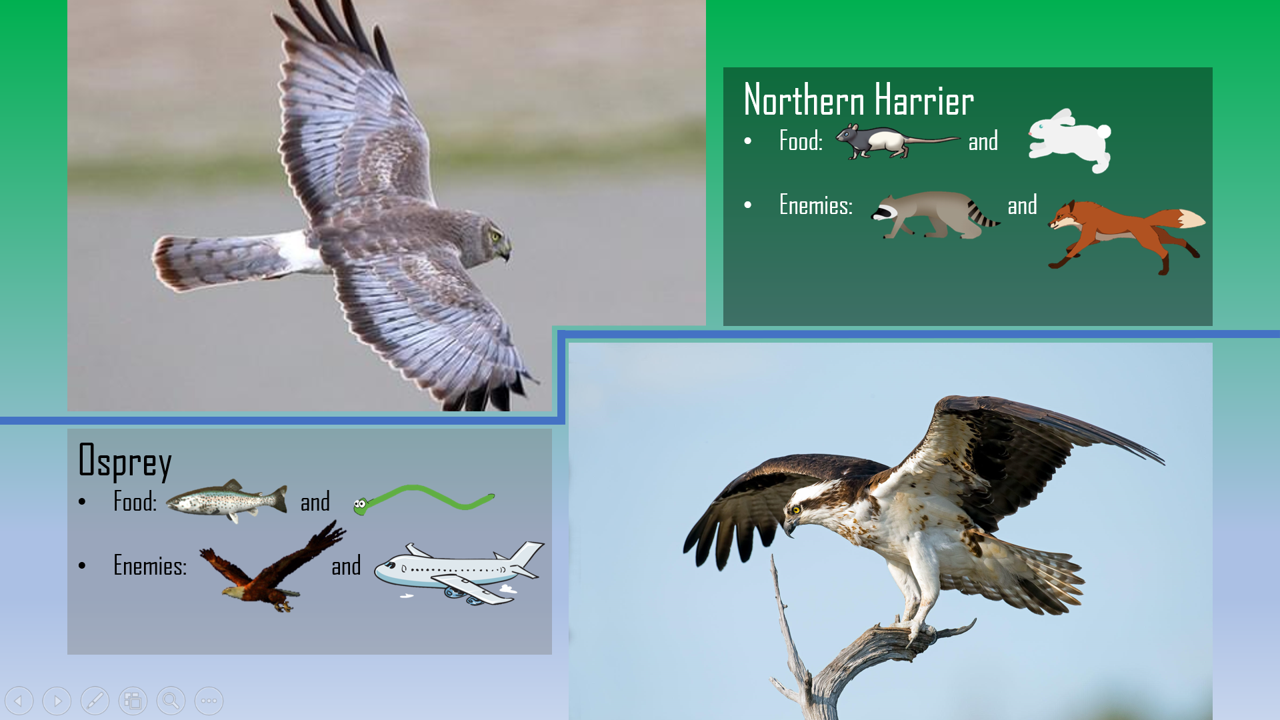
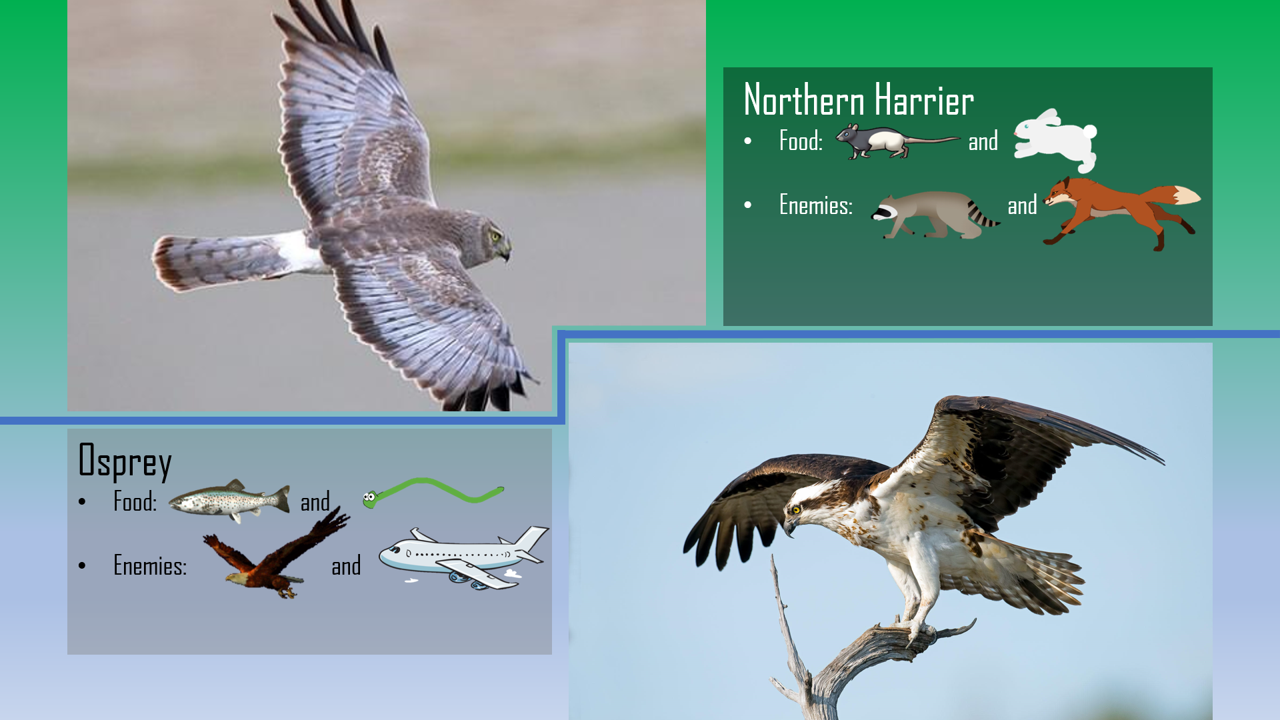
start screen fixed

diff --git a/src/birdgame/View.java b/src/birdgame/View.java
@@ -258,7 +258,6 @@ static JFrame frameHarrier;
         if (Model.specialFoodEaten() ) {
         	displayFacts(g);
         }
-        
       
         g.drawImage(flyForward[picNum], playerXLoc, playerYLoc, this);
         for(GamePiece gp : currentViewableGPs) {   
@@ -382,8 +381,8 @@ static JFrame frameHarrier;
         osprey.setFont(new Font("Agency FB", Font.BOLD, frameWidth/55));
         harrier = new JButton("Play as Northern Harrier");
         harrier.setFont(new Font("Agency FB", Font.BOLD, frameWidth/65));
-    	osprey.setBounds(frameWidth/10,(frameHeight*4)/5,frameWidth/4,frameHeight/10);
-    	harrier.setBounds((frameWidth*6)/10,frameHeight/3,frameWidth/4,frameHeight/10);
+    	osprey.setBounds(frameWidth/10,(frameHeight*84)/100,frameWidth/4,frameHeight/15);
+    	harrier.setBounds((frameWidth*6)/10,(frameHeight*37)/100,frameWidth/4,frameHeight/15);
 //    	ospreyPic = new JLabel();
 //    	ospreyPic.setIcon(new ImageIcon(ospreyImg.getImage().getScaledInstance(300,300, Image.SCALE_SMOOTH)));
 //    	ospreyPic.setBounds(200,100,300,300);
